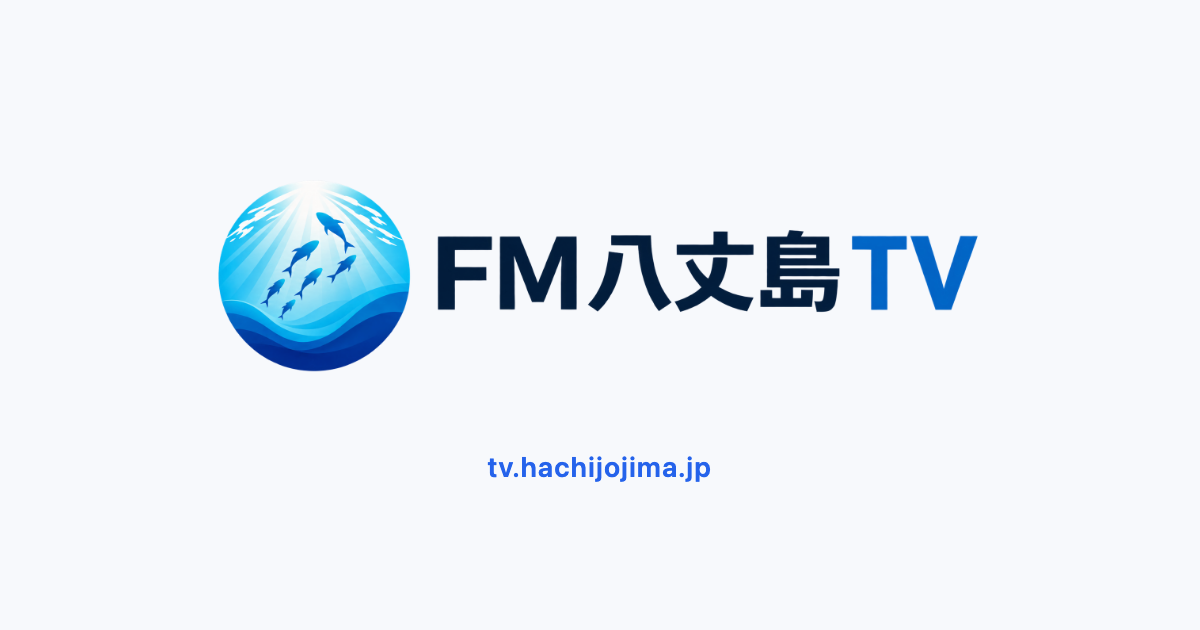
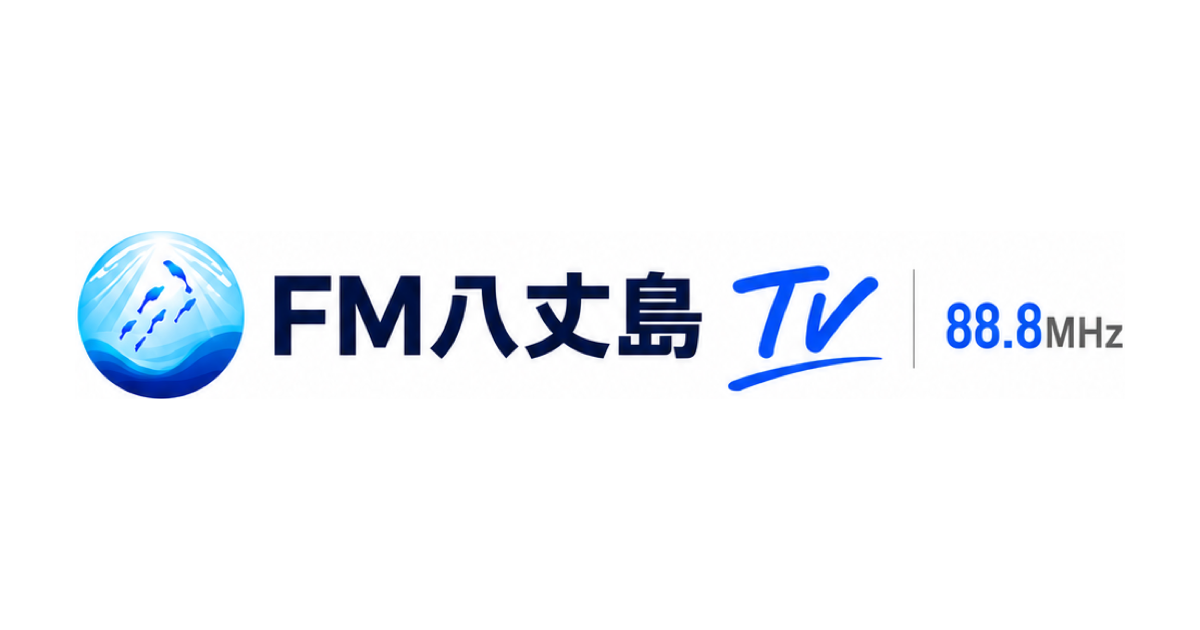
Replace public station wordmark

Changed region(s): [[0.0617, 0.2714, 0.9558, 0.6333], [0.4008, 0.7238, 0.5858, 0.7841]]

diff --git a/index.html b/index.html
@@ -9,14 +9,14 @@
   <meta property="og:description" content="FM八丈島のWebテレビ。音楽、太鼓、スポーツ、昔の映像、島を訪れた人たちの記録を、24時間ひとつの編成で流しています。">
   <meta property="og:type" content="website">
   <meta property="og:url" content="https://tv.hachijojima.jp/">
-  <meta property="og:image" content="https://tv.hachijojima.jp/ogp.png">
+  <meta property="og:image" content="https://tv.hachijojima.jp/ogp.png?v=brand-2">
   <meta property="og:image:width" content="1200">
   <meta property="og:image:height" content="630">
   <meta property="og:image:alt" content="FM八丈島 TV">
   <meta name="twitter:card" content="summary_large_image">
   <meta name="twitter:title" content="FM八丈島 TV | HACHIJOJIMA TV">
   <meta name="twitter:description" content="FM八丈島のWebテレビ。音楽、太鼓、スポーツ、昔の映像、島を訪れた人たちの記録を、24時間ひとつの編成で流しています。">
-  <meta name="twitter:image" content="https://tv.hachijojima.jp/ogp.png">
+  <meta name="twitter:image" content="https://tv.hachijojima.jp/ogp.png?v=brand-2">
   <link rel="preconnect" href="https://mqxcbeaaqencookaanmx.supabase.co" crossorigin>
   <link rel="preconnect" href="https://www.youtube.com" crossorigin>
   <link rel="preconnect" href="https://cdn.jsdelivr.net" crossorigin>
@@ -27,12 +27,12 @@
   <link rel="stylesheet" href="public-ui.css?v=white-1">
   <link rel="stylesheet" href="public-mobile.css?v=ios-fullscreen-1">
   <link rel="stylesheet" href="public-shared.css?v=1">
-  <link rel="stylesheet" href="public-header.css?v=2">
+  <link rel="stylesheet" href="public-header.css?v=brand-2">
 </head>
 <body class="public-page">
   <main class="tv-shell">
     <header class="masthead">
-      <div class="brand"><img class="brand-logo brand-wordmark" src="logo.png" width="2172" height="724" alt="FM八丈島 TV"></div>
+      <div class="brand"><img class="brand-logo brand-wordmark" src="logo.png?v=brand-2" width="965" height="155" alt="FM八丈島 TV 88.8MHz"></div>
       <div id="presence-status" aria-label="人がみています"><strong id="presence-count">—人</strong><span>がみています</span></div>
     </header>
     <section class="screen" aria-label="現在放送中の映像"><div id="player"></div><p class="player-message" id="player-message" hidden></p></section>

diff --git a/public-header.css b/public-header.css
@@ -4,10 +4,10 @@
 }
 
 .public-page .brand-logo.brand-wordmark {
-  width: 184px;
-  clip-path: inset(12% 0);
-  margin-block: -7px;
-  transform: translateX(-5.2%);
+  width: 215px;
+  clip-path: none;
+  margin: 0;
+  transform: none;
 }
 
 .public-page #presence-status {
@@ -21,11 +21,5 @@
 
   .public-page .masthead {
     padding-bottom: 12px;
-  }
-}
-
-@media (max-width: 374px) {
-  .public-page .brand-logo.brand-wordmark {
-    width: 160px;
   }
 }
